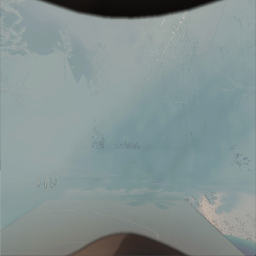
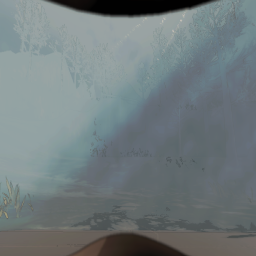
1.0.0

diff --git a/CHANGELOG.md b/CHANGELOG.md
@@ -1,6 +1,15 @@
 
 ---
 
+**<details><summary>Version 1.0.0</summary>**
+
+ - Updated README.
+ - Visual enhancements.
+
+</details>
+
+---
+
 **<details><summary>Version 0.1.10</summary>**
 
  - Fixed how trees break.

diff --git a/README.md b/README.md
@@ -21,6 +21,7 @@ Adds a valley (mostly) vanilla-like moon to Lethal Company. ([Discord link](http
 
 
 ## Credits
+- Zeekerss for developing the game.
 - [Water asset](https://assetstore.unity.com/packages/2d/textures-materials/water/simple-water-shader-urp-191449)
 - Voxx for [TerraMesh](https://discord.com/channels/1168655651455639582/1303914349533990983) tool.
 - The developers of this mod's dependencies as it literally could not exist without them.